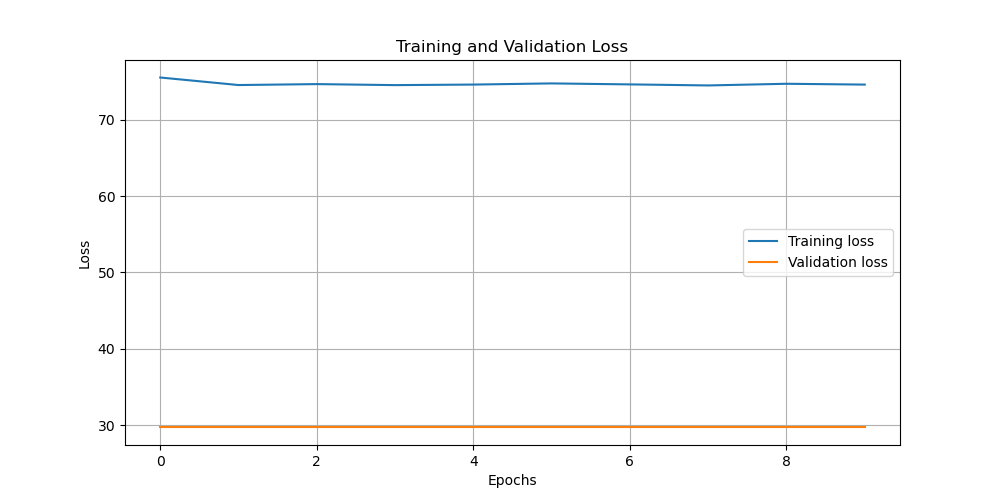
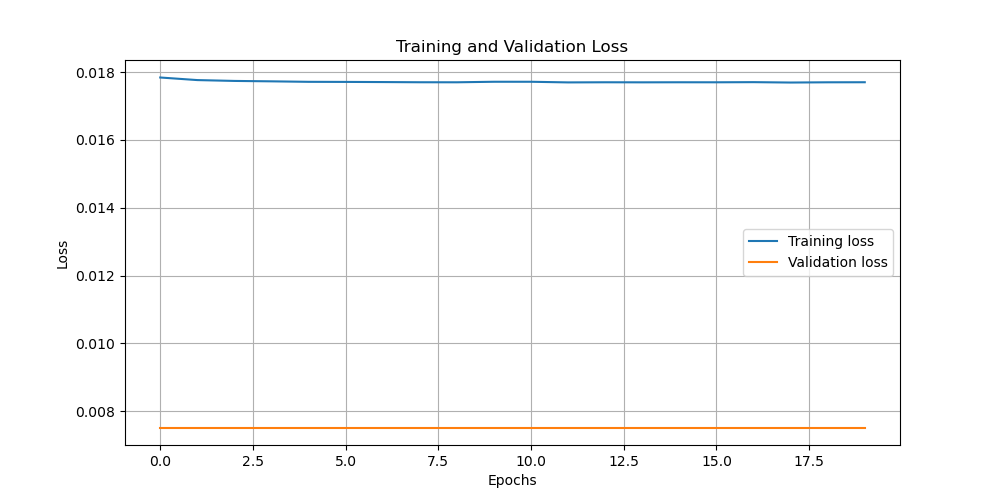
loss

diff --git a/data/init.py b/data/init.py
@@ -106,8 +106,19 @@ def read_data(ids):
         # break;
     print("shapes", len(X), len(y), X[0].shape, y[0].shape)
     single_df = pd.concat(big_df)
+    big_X = torch.cat(X)
+    big_y = torch.cat(y)
+    min_vals_X = big_X.min(dim=0, keepdim=True)[0].min(dim=1, keepdim=True)[0]
+    max_vals_X = big_X.max(dim=0, keepdim=True)[0].max(dim=1, keepdim=True)[0]
+
+    min_vals_y = big_y.min(dim=0, keepdim=True)[0]
+    max_vals_y = big_y.max(dim=0, keepdim=True)[0]
+
+    # Perform min-max normalization per feature
+    normalized_X = (big_X - min_vals_X) / (max_vals_X - min_vals_X)
+    normalized_y = (big_y - min_vals_y) / (max_vals_y - min_vals_y)
     #print("single_df", single_df.describe())
-    return torch.cat(X),torch.cat(y), single_df
+    return normalized_X, normalized_y, single_df
 
 def get_columns(df):
     columns = []

diff --git a/main.py b/main.py
@@ -6,10 +6,10 @@ if __name__ == '__main__':
     print("started")
     set_trackdf()
     #download_data()
-    train_ids, test_ids,_ = divide_track_ids()
-    train_x, train_y,_ = read_data(train_ids[0:50])
-    #test_x, test_y = read_data(test_ids[0:20])
+    train_ids, test_ids = divide_track_ids()
+    train_x, train_y,_ = read_data(train_ids[0:100])
+    test_x, test_y,_ = read_data(test_ids[0:50])
     print("shape train::", train_x.shape, train_y.shape)
-    #print("shape test::", test_x.shape, test_y.shape)
-    # gru_model = GRUModel(train_x.shape[2])
-    # gru_model.run_model((train_x,train_y), (test_x, test_y))
+    print("shape test::", test_x.shape, test_y.shape)
+    gru_model = GRUModel(train_x.shape[2])
+    gru_model.run_model((train_x,train_y), (test_x, test_y))

diff --git a/models/GRU/model.py b/models/GRU/model.py
@@ -20,7 +20,7 @@ class GRU(nn.Module):
         return out
 
 class GRUModel():
-    def __init__(self, input_size, hidden_size=64, num_layers=2, lr=0.01):
+    def __init__(self, input_size, hidden_size=64, num_layers=2, lr=0.001):
         self.device = torch.device('cuda' if torch.cuda.is_available() else 'cpu')
         self.device = torch.device('mps' if torch.backends.mps.is_available() else 'cpu')
         self.model = GRU(input_size, hidden_size, num_layers,self.device).to(self.device)

diff --git a/constants.py b/constants.py
@@ -19,7 +19,6 @@ feature_list = [
     'GPS Bearing(deg)',
     'GPS HDOP(precision)',
     'GPS Altitude(m)',
-    'Consumption(l/h)',
     'Speed(km/h)',
     'Rpm(u/min)',
     'Throttle Position(%)',
